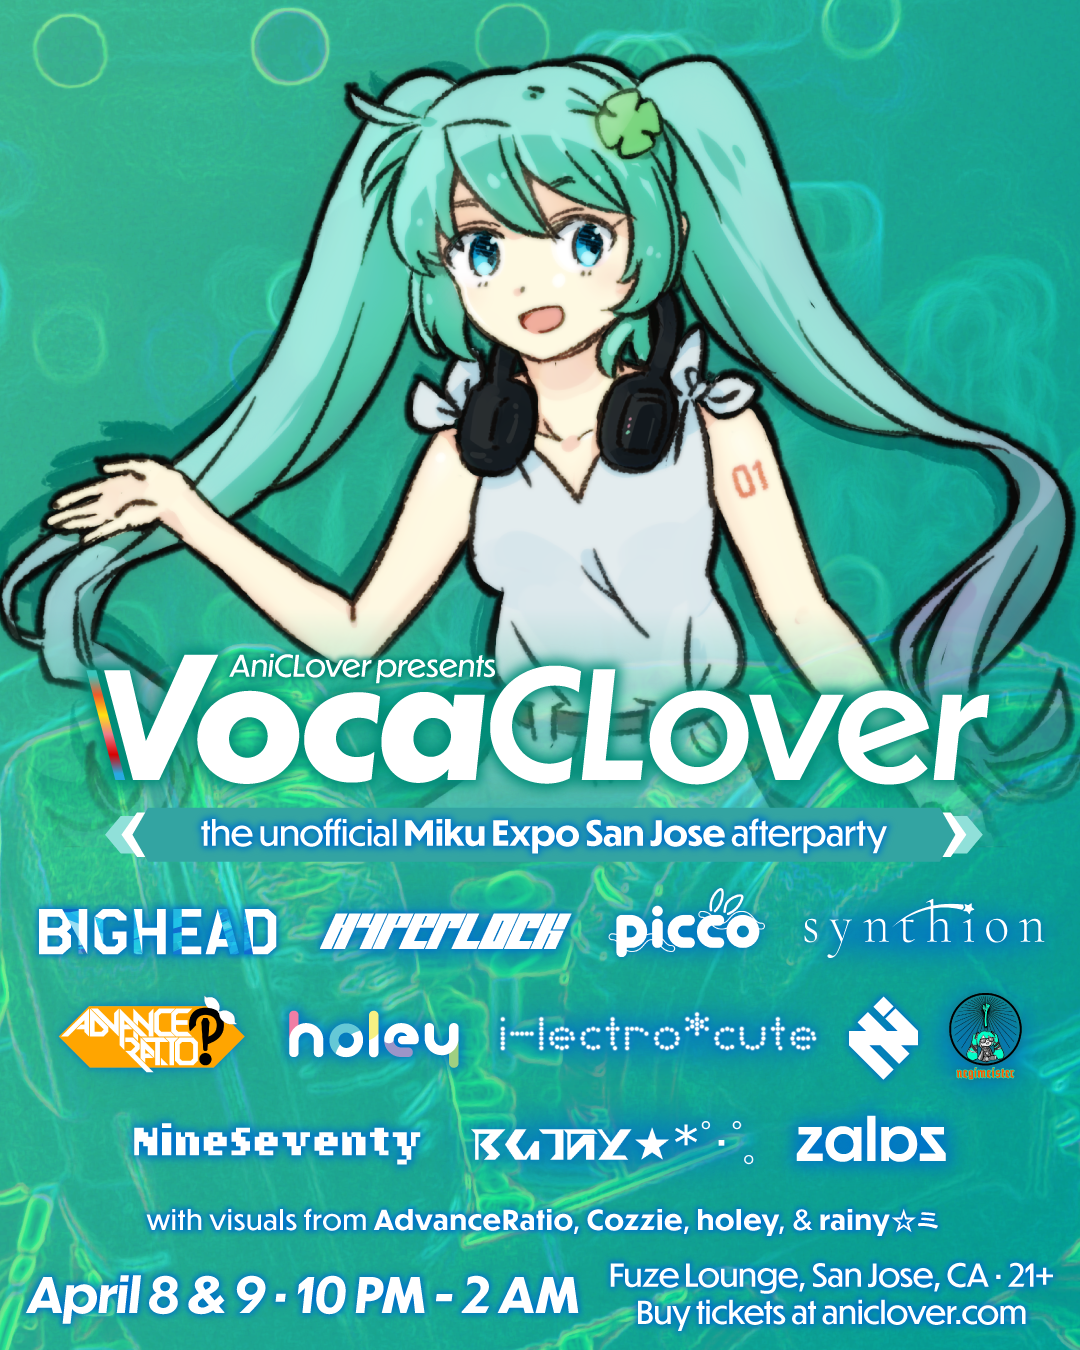
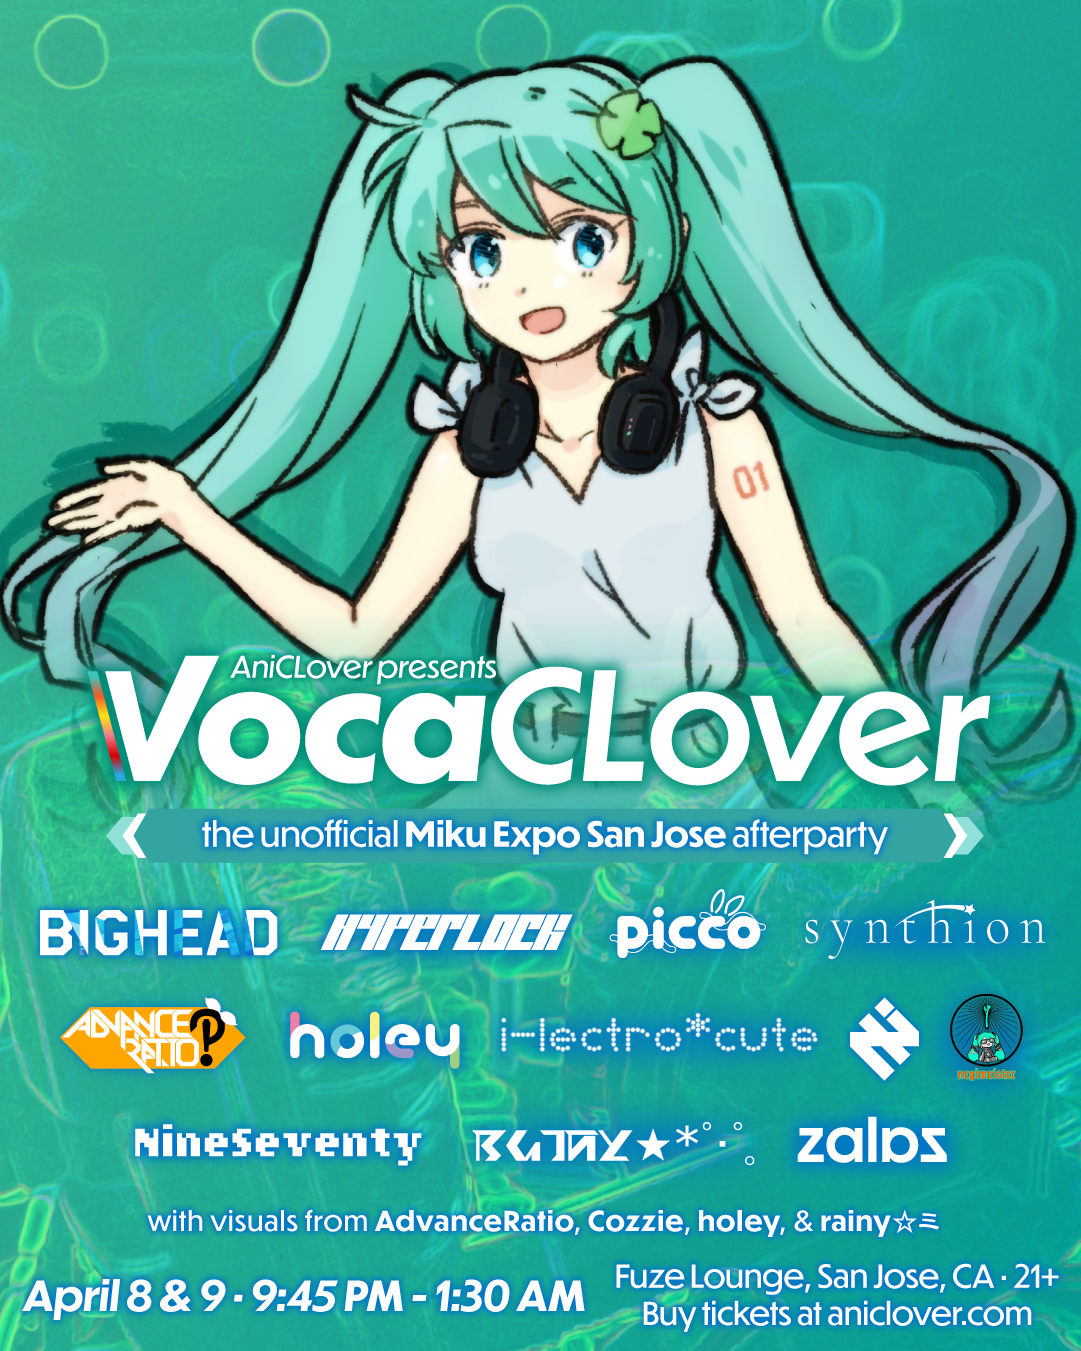
Change Vocaclover time

diff --git a/index.html b/index.html
@@ -273,7 +273,7 @@
 
                         <a href="https://aniclover.ticketspice.com/vocaclover?utm_campaign=main&utm_source=website" class="btn btn-secondary">
                             <h4>VocaCLover @ Fuze</h4>
-                            Monday & Tuesday, April 8 & 9 | 10PM<br>
+                            Monday & Tuesday, April 8 & 9 | 9:45PM<br>
                         </a>
                         <a href="https://aniclover.com/dna-ticket-info?utm_campaign=main&utm_source=website" class="btn btn-danger">
                             <h4>AniCLover: YoaCLobi @ DNA Lounge</h4>
